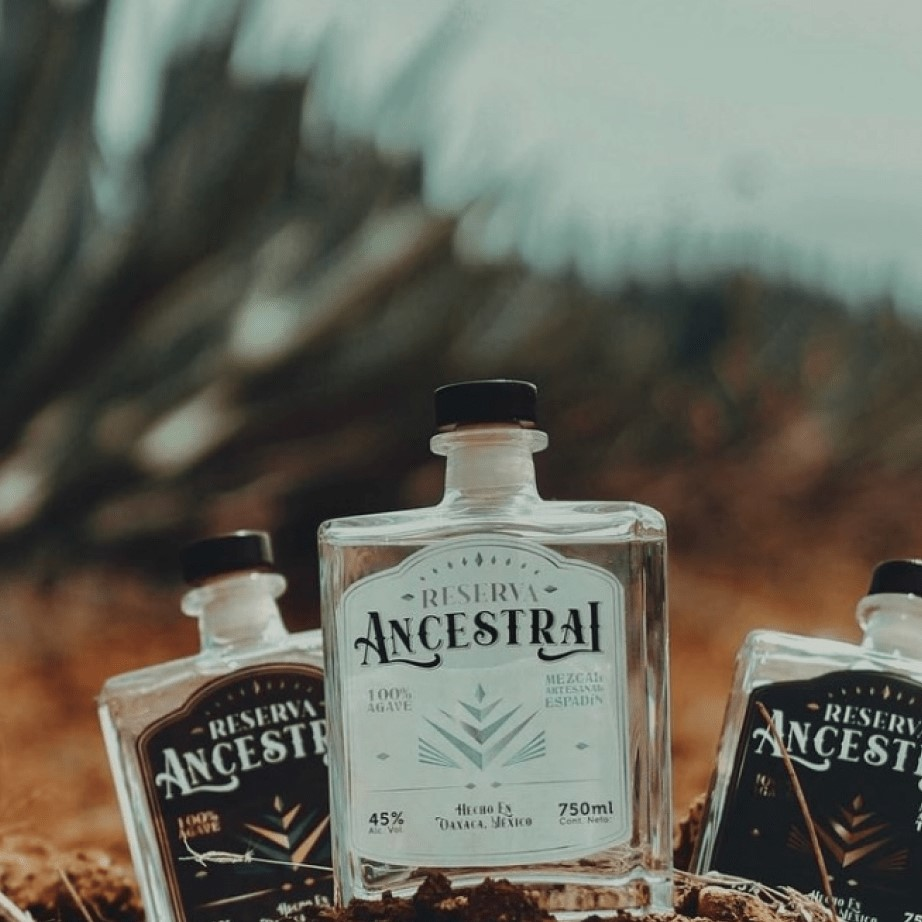
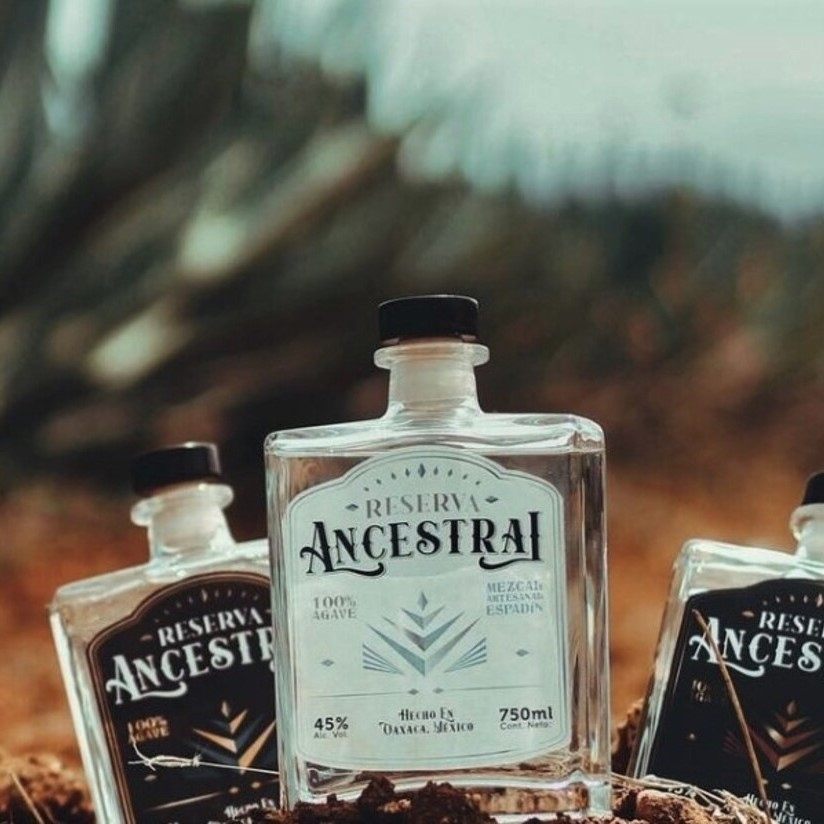
Updating background bottles for main page

diff --git a/components/main/MainHeader.module.css b/components/main/MainHeader.module.css
@@ -6,7 +6,7 @@
   /* height: 88vh; */
   height: 100vh;
 
-  background-image: url("../../public/static/images/photos/Reserva_Ancestral_Botellas_01.png");
+  background-image: url("../../public/static/images/photos/Reserva_Ancestral_Botellas_01_resized.jpg");
   background-repeat: no-repeat; /* Do not repeat the image */
   background-position: right bottom; /* Center the image */
   background-size: cover;
